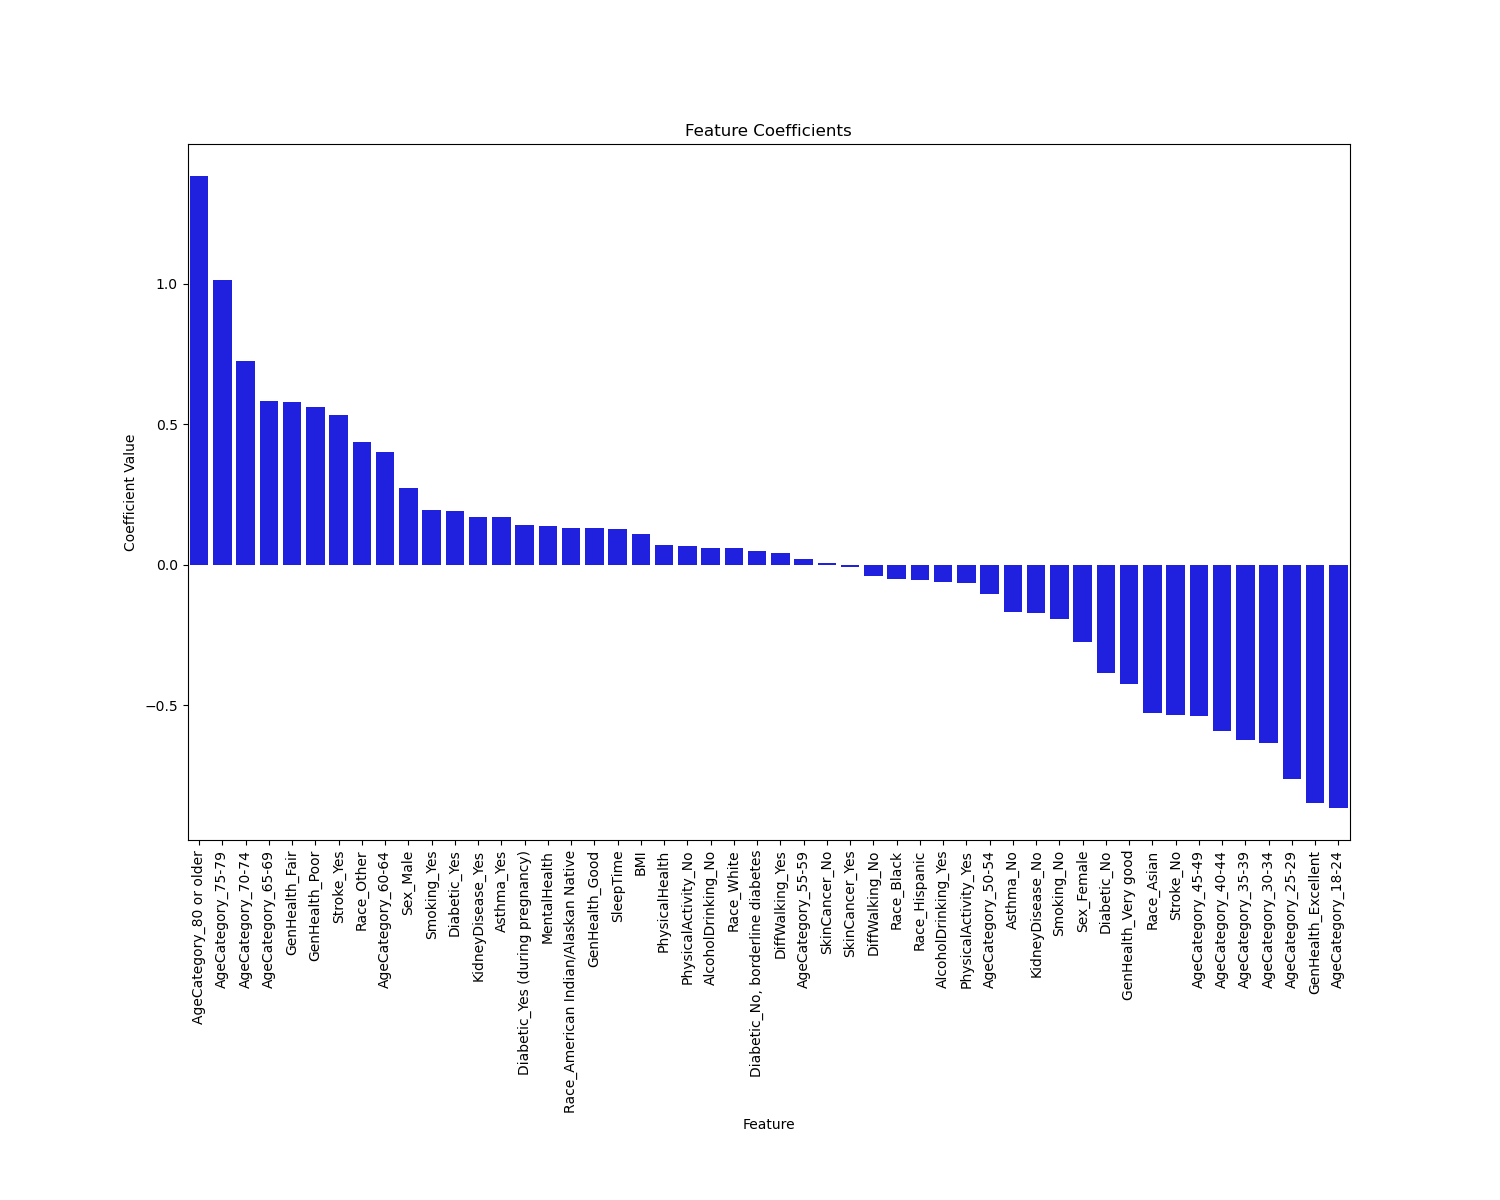
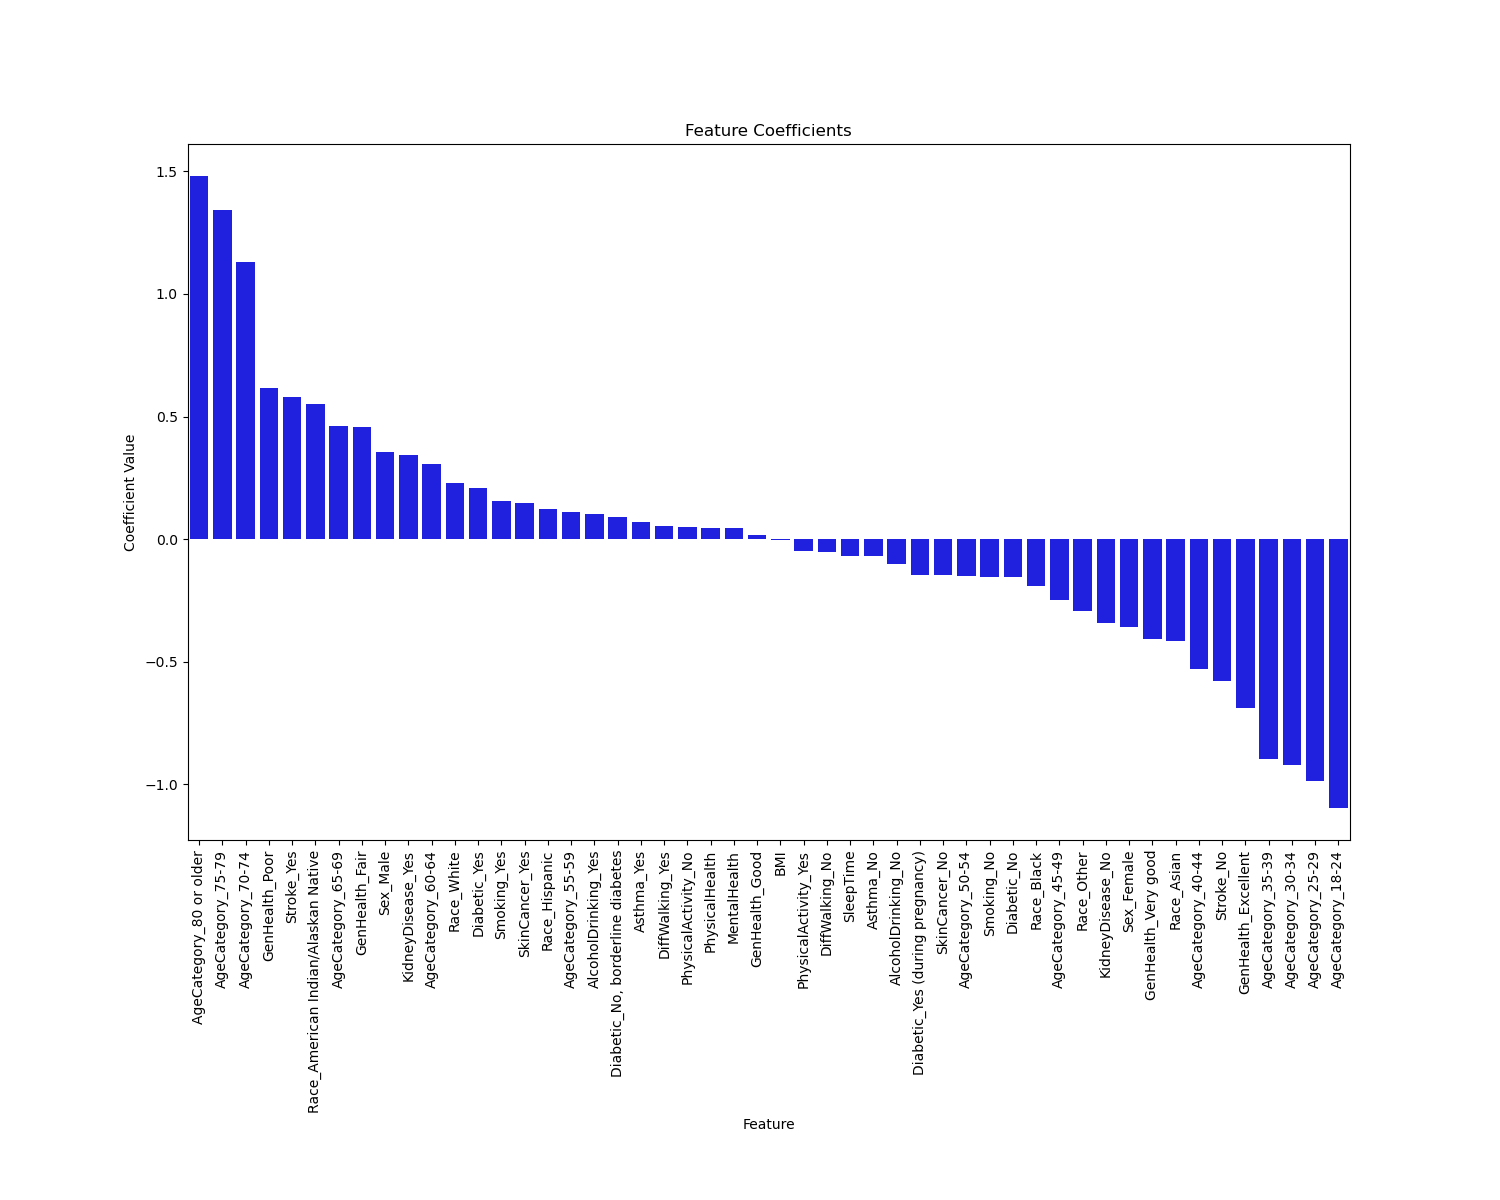
SVM: Cleaned up the code, added notes

diff --git a/SVM_Leonard/code/svm.py b/SVM_Leonard/code/svm.py
@@ -12,7 +12,8 @@ import warnings
 warnings.filterwarnings("ignore")
 
 
-def performance_evaluation(y_eval, X_eval, cla, name='Name'):
+# Classification report, confusion matrix, part of ROC curve
+def performance_evaluation(y_eval, X_eval, cla):
     y_pred = cla.best_estimator_.predict(X_eval)
     y_prob = cla.best_estimator_.predict_proba(X_eval)[:, 1]
 
@@ -21,6 +22,7 @@ def performance_evaluation(y_eval, X_eval, cla, name='Name'):
     tprs.append(np.interp(mean_fpr, fpr, tpr))
     tprs[-1][0] = 0.0
     aucs.append(roc_auc)
+
     class_report = classification_report(y_eval, y_pred, output_dict=True)
     report_df = pd.DataFrame(class_report).transpose()
     report_df.to_csv('../tables/Classification Report SVM.csv', index=True)
@@ -36,9 +38,9 @@ def performance_evaluation(y_eval, X_eval, cla, name='Name'):
     plt.close()
 
 
+# Import data, assign dtype (can also be left out -> changes later in code)
 data = pd.read_csv('../data/heart_2020_cleaned.csv',
                    dtype={
-
                        'BMI': float,
                        'Smoking': 'category',
                        'AlcoholDrinking': 'category',
@@ -58,47 +60,59 @@ data = pd.read_csv('../data/heart_2020_cleaned.csv',
                        'SkinCancer': 'category'
                    })
 
+# Check for missing data
 print(data.isna().sum())
 
+# Map the label as 1/0 instead of yes/no
 data['HeartDisease'] = data['HeartDisease'].map({'Yes': 1, 'No': 0})
 
+# Check the dtypes
 data_types = data.dtypes
 print(data_types)
 
+# Split features into numerical and categorical (label isn't a float, could be done differently/more optimally, here the
+# dtype assignment from the start becomes relevant)
 num_cols = data.select_dtypes(include=[float]).columns.tolist()
 print(num_cols)
 cat_cols = data.select_dtypes(include=['category']).columns.tolist()
 print(cat_cols)
 
+# Apply one hot encoding to the categorical features
 encoded_data = pd.get_dummies(data, columns=cat_cols, dtype=int, drop_first=False)
 print(encoded_data)
 
+# Split the data into features and
 X = encoded_data.drop('HeartDisease', axis=1)
 y = encoded_data['HeartDisease']
 
+# Check the prevalence of heart disease in data
 print(y.mean())
 print(y.sum())
 
+# Define potential hyperparameters, not that many to avoid high computational cost
 parameters = {'C': [1, 10, 100], 'gamma': [0.01, 0.1]}
 
+# Create lists and interval used to calculate ROC curve
 tprs = []
 aucs = []
 mean_fpr = np.linspace(0, 1, 100)
 
-data_performance = pd.DataFrame(columns=['tp', 'fp', 'tn', 'fn', 'accuracy', 'precision', 'recall', 'f1', 'roc_auc'])
-
+# Split data into train and test set, stratify y due to the low prevalence
 X_train, X_test, y_train, y_test = train_test_split(X, y, test_size=0.2, random_state=42, stratify=y)
 
+# Create a subset of the data to reduce the massive computational costs from the large dataset
+# Simultaneously balance the subset
 pos_patients = list(np.random.choice(X_train[y_train == 1].index, 1000))
 neg_patients = list(np.random.choice(X_train[y_train == 0].index, 1000))
-X_train_sub = X_train.loc[pos_patients+neg_patients]
-y_train_sub = y_train.loc[pos_patients+neg_patients]
+X_train_sub = X_train.loc[pos_patients + neg_patients]
+y_train_sub = y_train.loc[pos_patients + neg_patients]
 
 pos_patients_test = list(X_test[y_test == 1].index)
 neg_patients_test = list(np.random.choice(X_test[y_test == 0].index, len(pos_patients_test)))
-X_test_sub = X_test.loc[pos_patients_test+neg_patients_test]
-y_test_sub = y_test.loc[pos_patients_test+neg_patients_test]
+X_test_sub = X_test.loc[pos_patients_test + neg_patients_test]
+y_test_sub = y_test.loc[pos_patients_test + neg_patients_test]
 
+# Standardization and data copies to avoid inplace operations
 sc = StandardScaler()
 X_train_scaled = X_train_sub.copy()
 X_test_scaled = X_test_sub.copy()
@@ -106,19 +120,21 @@ X_test_scaled = X_test_sub.copy()
 X_train_scaled[num_cols] = sc.fit_transform(X_train_scaled[num_cols])
 X_test_scaled[num_cols] = sc.transform(X_test_scaled[num_cols])
 
+# Use SVM on the data. Cross-validation and hyperparameter tuning
 SVM = svm.SVC(probability=True, kernel='linear')
 clf = GridSearchCV(SVM, parameters, cv=5, scoring='accuracy')
 clf.fit(X_train_scaled, y_train_sub)
 print(clf.best_estimator_.get_params())
 
-performance_evaluation(y_test_sub, X_test_scaled, clf, name='Test')
+# Returns classification report and confusion matrix
+performance_evaluation(y_test_sub, X_test_scaled, clf)
 
+# Determine the permutation importance of each feature (importance of feature)
 perm_importance = permutation_importance(clf.best_estimator_, X_test_scaled, y_test_sub, n_repeats=2)
-
 importance_df = pd.DataFrame({'Permutation Importance': perm_importance.importances_mean}, index=X.columns)
 importance_df = importance_df.sort_values(by='Permutation Importance', ascending=False)
 importance_df.to_csv('../tables/Permutation Importance SVM.csv')
-plt.figure(figsize=(15,12))
+plt.figure(figsize=(15, 12))
 sns.barplot(x=importance_df.index, y='Permutation Importance', data=importance_df, color='b')
 plt.xlabel('Feature')
 plt.ylabel('Permutation Importance')
@@ -128,11 +144,12 @@ plt.subplots_adjust(bottom=0.3)
 plt.savefig('../plots/Permutation Importance SVM.png')
 print(importance_df)
 
+# Determine the coefficients of each feature (direction of feature)
 coefficients = clf.best_estimator_.coef_[0]
 coefficients_df = pd.DataFrame({'Coefficient': coefficients}, index=X.columns)
 coefficients_df = coefficients_df.sort_values(by='Coefficient', ascending=False)
 coefficients_df.to_csv('../tables/Feature Coefficients SVM.csv')
-plt.figure(figsize=(15,12))
+plt.figure(figsize=(15, 12))
 sns.barplot(x=coefficients_df.index, y=coefficients_df['Coefficient'], color='b')
 plt.title("Feature Coefficients")
 plt.xlabel('Feature')
@@ -142,7 +159,8 @@ plt.subplots_adjust(bottom=0.3)
 plt.savefig('../plots/Feature Coefficients SVM.png')
 print(coefficients_df)
 
-plt.figure(figsize=(12,8))
+# Plot the ROC curve
+plt.figure(figsize=(12, 8))
 plt.plot([0, 1], [0, 1], linestyle='--', lw=2, color='r', alpha=0.8)
 mean_tpr = np.mean(tprs, axis=0)
 mean_tpr[-1] = 1.0
@@ -158,4 +176,3 @@ plt.ylabel('True Positive Rate')
 plt.legend(loc="lower right")
 plt.tight_layout()
 plt.savefig('../plots/ROC Curve SVM.png')
-
